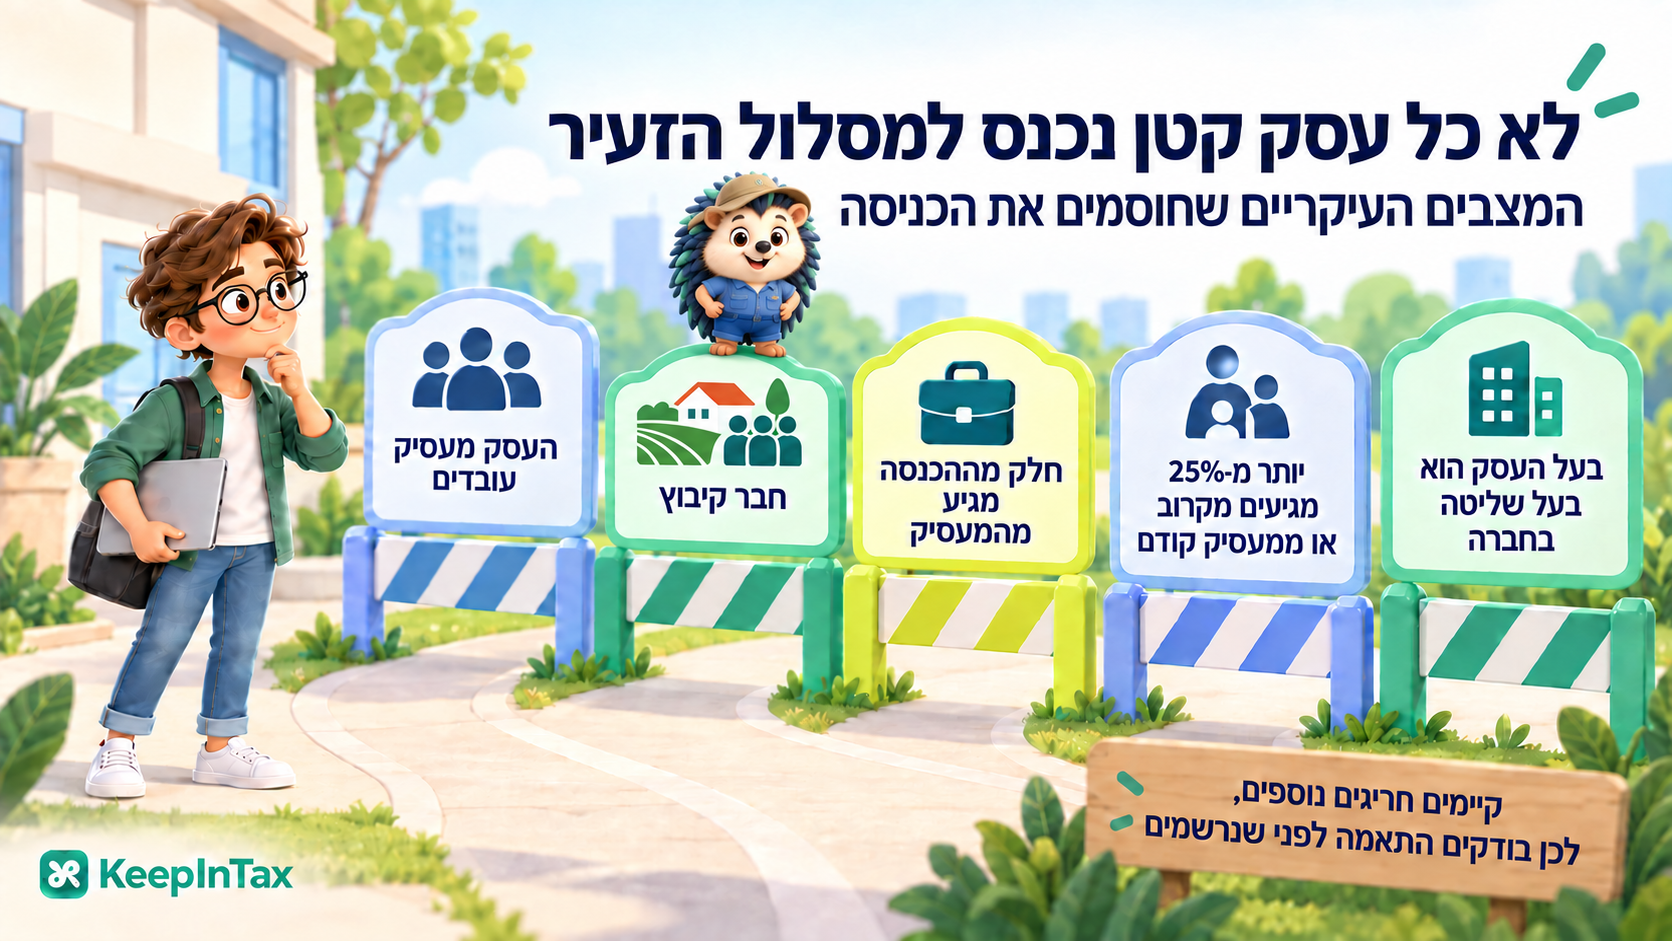
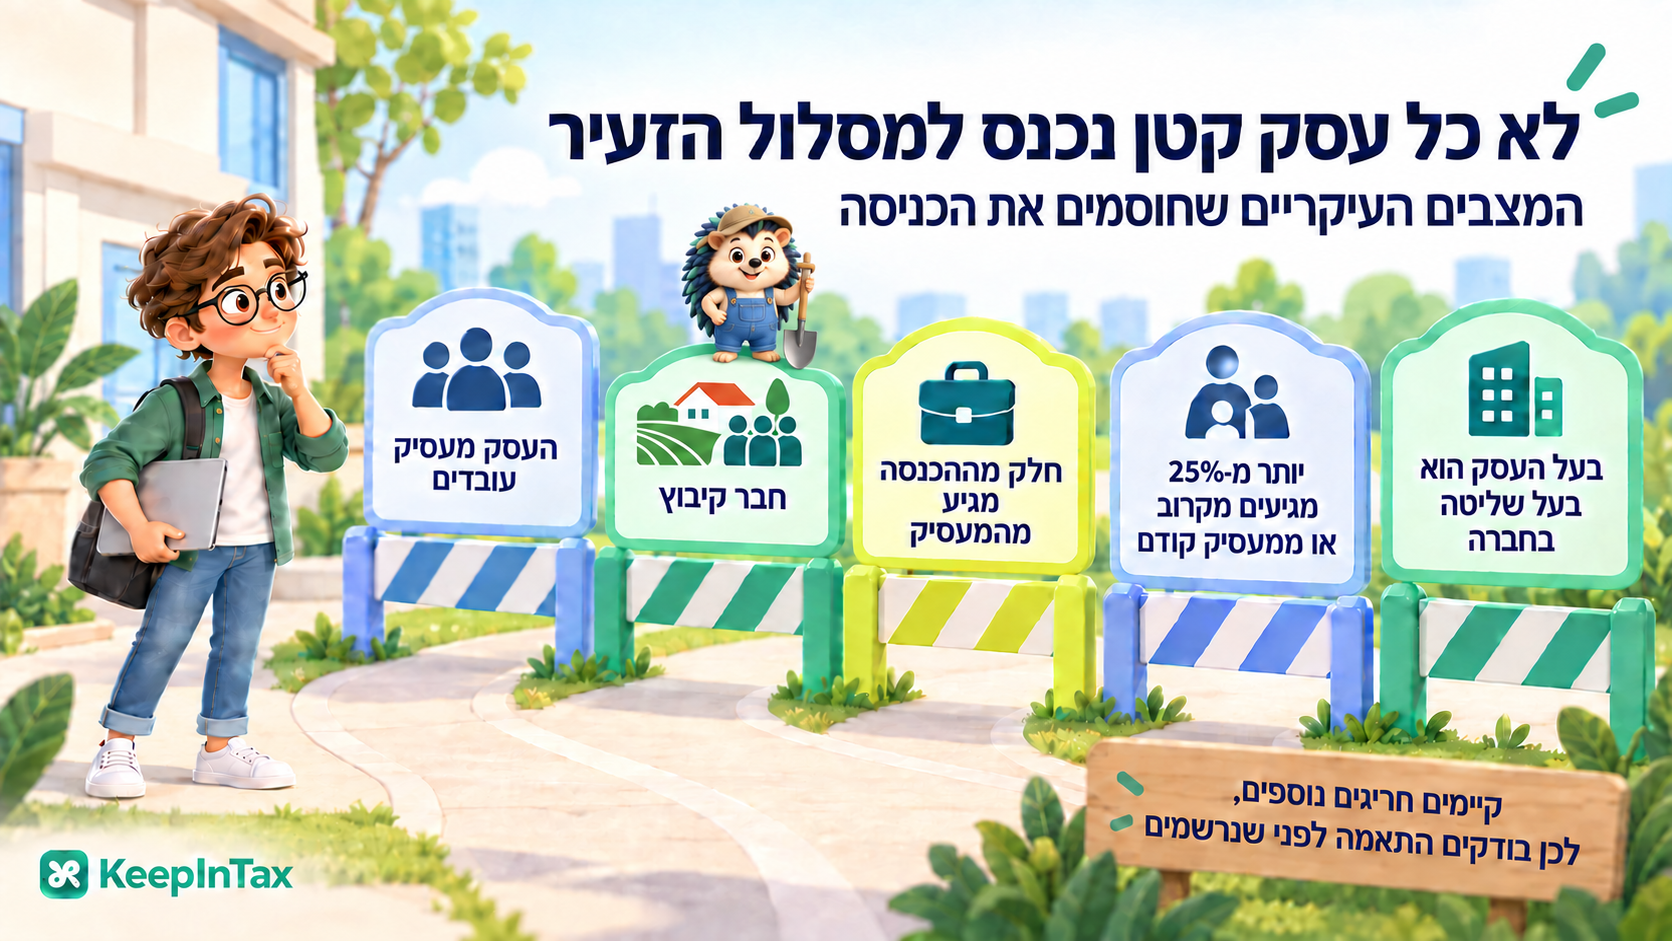
fix(guide): resize Kipi and add farming overalls and shovel

diff --git a/frontend/src/app/pages/admin-panel/AGENTS.md b/frontend/src/app/pages/admin-panel/AGENTS.md
@@ -18,6 +18,8 @@ Internal admin console (tabbed) for staff to manage clients dashboard, the unifi
 
 ## Main flows
 
+- Slide 7 Kipi follow-up: reduced size about 20%, blue bib overalls, khaki hat and handheld digging shovel, still standing on the kibbutz sign. Latest source `exec-5665afbb-f6ed-40f9-af46-aadd5ddcea9b.png` replaces the same `micro-blockers-approved.png` asset. Built-in precise-object-edit prompt changed only Kipi's size, outfit and shovel; slide text/layout remain unchanged.
+
 - Main slide 7 (`micro-blockers`) artwork uses three readable lines `חלק מההכנסה / מגיע / מהמעסיק`. Kipi stands on the kibbutz-member sign in a khaki hat and blue work clothes, with all other content preserved. Built-in image-edit source: `exec-1a6168da-fdc8-4710-a0bb-d0c688bfb4e7.png`; saved as `frontend/src/assets/self-employed-guide/micro-blockers-approved.png`. Prompt scope: fix that caption and add reference-matched Kipi only, leaving headings, five signs, person, logo and footer intact.
 
 - Status-comparison artwork revision: `exec-ff3d4736-2109-4e27-8dba-44ee02c36574.png`, built-in image edit. Prompt scope: new eligibility heading and five right-side check icons/right-aligned rows, then remove the scientist and her magnifying glass and restore the office background; retain eligibility copy and 2026 figures. Saved as `frontend/src/assets/self-employed-guide/status-comparison-approved.png`.
